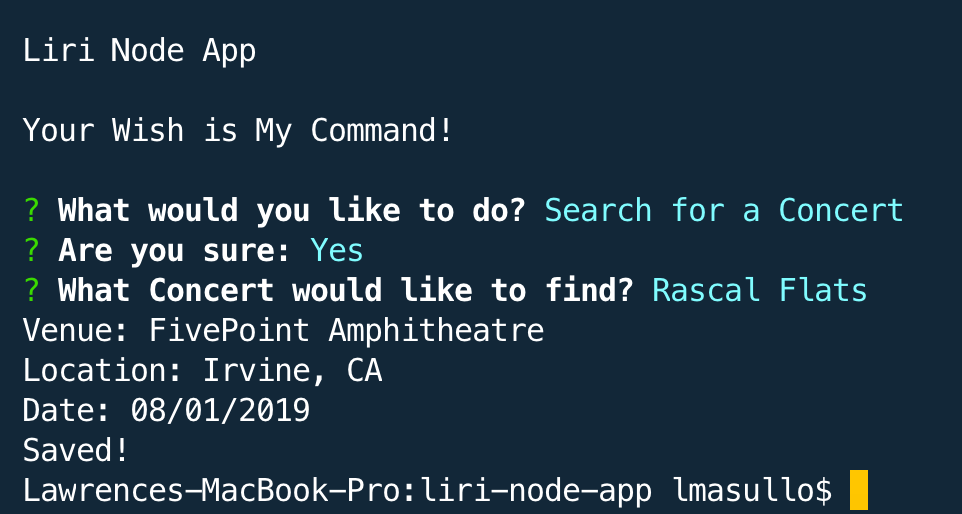
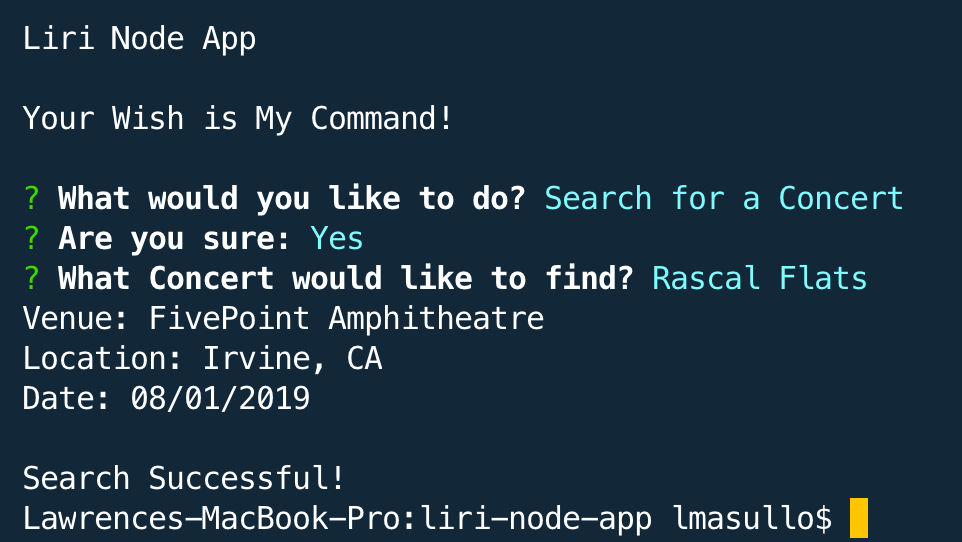
Replaced image

diff --git a/liri.js b/liri.js
@@ -29,7 +29,7 @@ console.log('Liri Node App\n\nYour Wish is My Command!\n');
 function logTxt(strLog) {
   fs.appendFile('log.txt', strLog, (err) => {
     if (err) throw err;
-    console.log('Saved!');
+    console.log('\nSearch Successful!');
   });
 } // End log txt function
 
